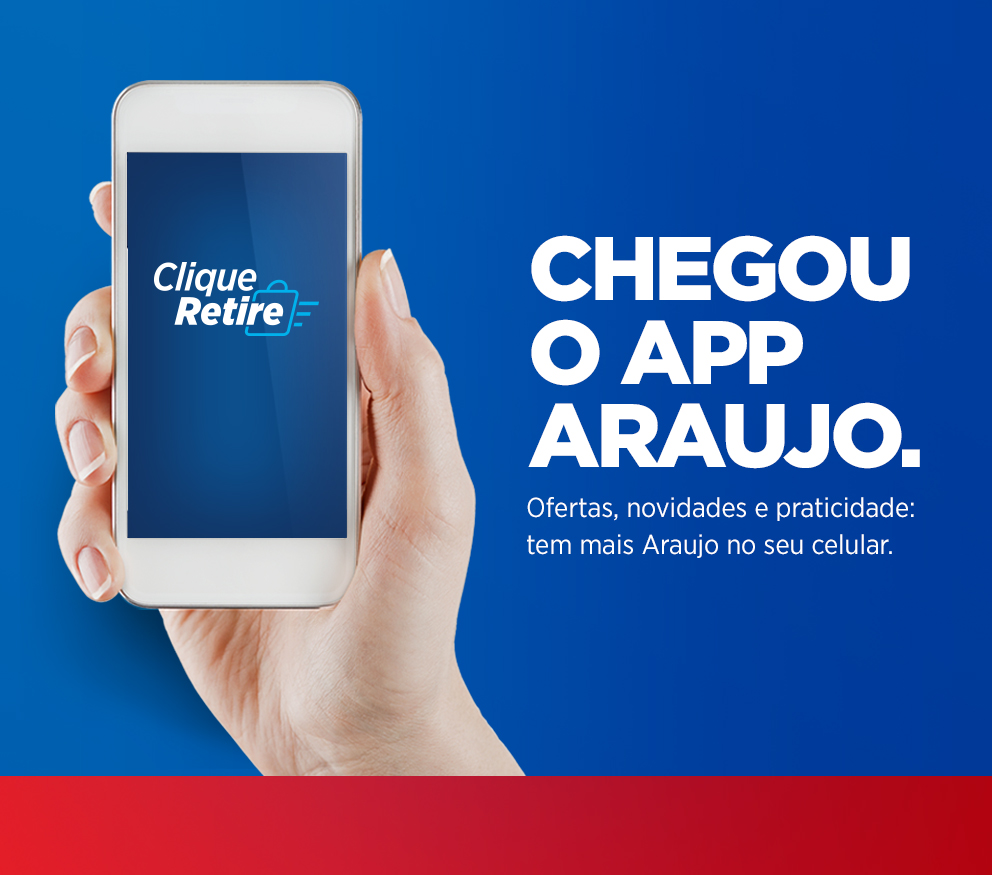
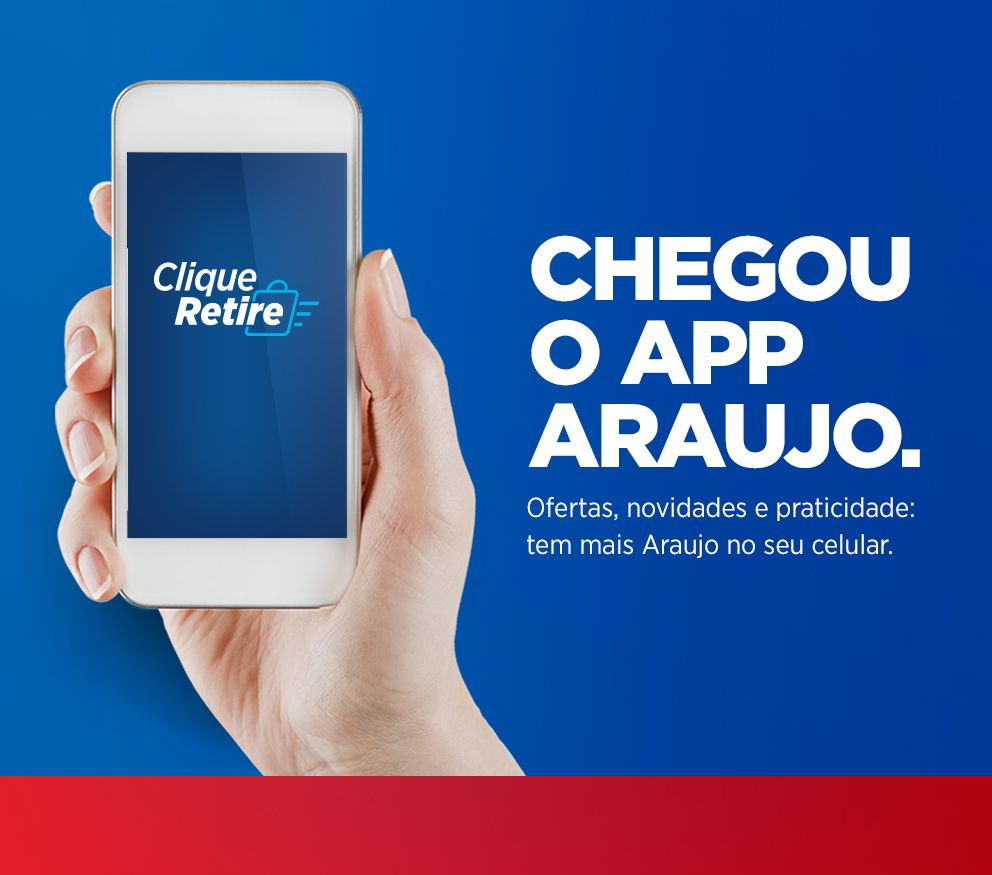
ajustes perfoemance

Changed region(s): [[0.5312, 0.5554, 0.9062, 0.648], [0.1875, 0.3086, 0.3125, 0.3703], [0.75, 0.2777, 0.7812, 0.3086]]

diff --git a/aplicativo/css/app.css b/aplicativo/css/app.css
@@ -1,2 +1,2 @@
-@font-face{font-family:'gotham-narrow-bold';src:url("../fonts/GothamNarrow-Bold.eot?#iefix") format("embedded-opentype"),url("../fonts/GothamNarrow-Bold.otf") format("opentype"),url("../fonts/GothamNarrow-Bold.woff") format("woff"),url("../fonts/GothamNarrow-Bold.ttf") format("truetype"),url("../fonts/GothamNarrow-Bold.svg#gotham-narrow-bold") format("svg");font-weight:normal;font-style:normal}@font-face{font-family:'gotham-narrow-black';src:url("../fonts/GothamNarrow-Black.eot?#iefix") format("embedded-opentype"),url("../fonts/GothamNarrow-Black.otf") format("opentype"),url("../fonts/GothamNarrow-Black.woff") format("woff"),url("../fonts/GothamNarrow-Black.ttf") format("truetype"),url("../fonts/GothamNarrow-Black.svg#gotham-narrow-black") format("svg");font-weight:normal;font-style:normal}@font-face{font-family:'gotham-narrow';src:url("../fonts/GothamNarrow-Book.eot?#iefix") format("embedded-opentype"),url("../fonts/GothamNarrow-Book.otf") format("opentype"),url("../fonts/GothamNarrow-Book.woff") format("woff"),url("../fonts/GothamNarrow-Book.ttf") format("truetype"),url("../fonts/GothamNarrow-Book.svg#gotham-narrow") format("svg");font-weight:normal;font-style:normal}body{font-family:'gotham-narrow' !important;font-weight:normal !important}h1,h2,h3,h4,h5{font-family:'gotham-narrow-black'}h1{color:#fff;margin-top:30px;margin-bottom:15px;font-size:98px;line-height:91px}@media screen and (max-width: 992px){h1{font-size:60px;line-height:60px;text-align:left}}@media screen and (max-width: 768px){h1{font-size:40px;line-height:40px}}@media screen and (max-width: 576px){h1{font-size:30px;line-height:30px}}.subtitle-receita-agil,.subtitle-clique-retire{font-style:italic;text-transform:uppercase;font-size:25px;line-height:30px;text-align:left;color:#fff;margin:40px 0 50px 0}.subtitle-receita-agil span,.subtitle-clique-retire span{color:#00b1eb}.subtitle-receita-agil span.gold,.subtitle-clique-retire span.gold{color:#ffde31}@media screen and (max-width: 992px){.subtitle-receita-agil,.subtitle-clique-retire{text-align:center;font-size:20px;line-height:24px}}.subtitle-clique-retire{text-transform:inherit;font-size:25px;letter-spacing:1px;line-height:25px}p{font-size:18px}strong{font-family:'gotham-narrow-bold'}section{position:relative;overflow:hidden}section .abs-filter{position:absolute;right:0;height:100%}@media screen and (max-width: 992px){section .abs-filter{display:none}}section .col-sector{position:relative;padding:50px 15px}section .col-sector.horizontal-divider:before{content:'';position:absolute;width:1px;height:100%;right:0;top:0}section .col-sector.horizontal-divider:after{content:'';width:40px;height:40px;margin-top:-20px;margin-left:-20px;right:-20px;top:50%;position:absolute;-moz-transform:rotate(45deg);-webkit-transform:rotate(45deg);-o-transform:rotate(45deg);-ms-transform:rotate(45deg);transform:rotate(45deg)}section .col-sector.horizontal-divider p{color:#fff;font-size:24px}@media screen and (max-width: 992px){section .col-sector.horizontal-divider:before{left:0;right:inherit;top:inherit;bottom:0;width:100%;height:1px}section .col-sector.horizontal-divider:after{width:20px;height:20px;margin-left:-10px;margin-top:-10px;right:inherit;top:inherit;bottom:-10px;left:50%;z-index:3}section .col-sector.horizontal-divider p{font-size:18px}}@media screen and (max-width: 576px){section .col-sector{padding:25px 15px}}section .title-section{display:block;text-transform:uppercase;text-align:center;margin:30px 15px 15px 15px}section .title-section.blue-detail{color:#2c527c;background:url(../img/blue-detail.png) repeat-x 0% 50%}section .title-section.blue-detail span,section .title-section.blue-detail strong{display:inline-block;padding:0px 25px;background-color:#4f92de}section .title-section.green-detail{color:#2c745c;background:url(../img/green-detail.png) repeat-x 0% 50%}section .title-section.green-detail span,section .title-section.green-detail strong{display:inline-block;padding:0px 25px;background-color:#4ac39a}@media screen and (max-width: 576px){section .title-section{display:block;padding:0 0}}.container{max-width:960px}.features-list{margin-bottom:25px}.features-list p{color:#2c527c}@media screen and (max-width: 992px){.features-list p{font-size:0.9rem;padding-left:0.5rem}}@media screen and (max-width: 992px){.features-list{margin:15px 0}}.img-fluid{display:block;margin:0 auto}.img-fluid.inline{display:inline-block}.line-cta-buttom{margin-bottom:20px;margin-top:40px}@media screen and (max-width: 992px){.line-cta-buttom .col{text-align:left}.line-cta-buttom img{max-height:60px}.line-cta-buttom.mobile-header{margin-top:0}}@media screen and (max-width: 768px){.line-cta-buttom{margin:15px 0;justify-content:center}.line-cta-buttom .col{text-align:center}}.list-lojas-app{display:inline-flex}.list-lojas-app .nav-item:first-child{margin-right:15px}@media screen and (max-width: 992px){.list-lojas-app{justify-content:center}}@media screen and (max-width: 576px){.list-lojas-app .nav-item{display:block;width:100%}.list-lojas-app .nav-item:first-child{margin-right:0px;margin-bottom:15px}}.full-height{height:100%}@media screen and (max-width: 992px){.container{max-width:inherit;width:100%}}.video-line{padding:30px 0}.pre-header{background-color:#fbfbfb;display:none;text-align:left;padding:10px 30px}.pre-header img{display:block;margin:0 auto}@media screen and (max-width: 768px){.pre-header{margin-bottom:30px}}header{padding:30px 0 50px 0;background:url("../img/fundo-receita-agil.jpg") no-repeat 50% 50%;background-size:100% 100%}header .destaque{color:#fff;font-size:30px;line-height:40px;margin-bottom:0}header .abs-logo{margin-bottom:-50px;display:inline-block}@media screen and (max-width: 992px){header .destaque{font-size:24px;line-height:28px;text-align:left}header .container{padding:0}}@media screen and (max-width: 768px){header{padding-top:0;background:url(../img/gradient-red-mob.jpg) repeat-y left top/100%;background-color:#bb1125}header .destaque{font-size:18px;line-height:20px;text-align:left}}@media screen and (max-width: 576px){header .destaque{font-size:14px;line-height:18px}}.clique-retire{background:url(../img/fundo-clique-retire.png) repeat-x left center/100% 100%;padding:60px 0 50px 0}.clique-retire .abs-filter{background-color:#3db49a}.clique-retire .col-sector.horizontal-divider:before{background-color:#2c745c}.clique-retire .col-sector.horizontal-divider:after{background-color:#4ac39a;border-top:1px solid #2c745c;border-right:1px solid #2c745c}@media screen and (max-width: 992px){.clique-retire .col-sector.horizontal-divider:after{border-bottom:1px solid #2c745c;border-top:none}}.clique-retire .list-clique-retire{text-align:center}.clique-retire .list-clique-retire h3{text-transform:uppercase;margin-top:15px;color:#fff}.clique-retire .list-clique-retire p{color:#fff}@media screen and (max-width: 576px){.clique-retire .list-clique-retire .list-item{margin-bottom:30px}.clique-retire .list-clique-retire .list-item:last-child{margin-bottom:0}}@media screen and (max-width: 992px){.clique-retire .filter-mob{background-color:#3db49a}}.receita-agil{background:url(../img/fundo-receita-agil.jpg) no-repeat center center/cover;padding:60px 0 50px 0;background-color:#4f92de}.receita-agil .abs-filter{background-color:#568ec9}.receita-agil .col-sector.horizontal-divider:before{background-color:#2c527c}.receita-agil .col-sector.horizontal-divider:after{background-color:#4f92de;border-top:1px solid #2c527c;border-right:1px solid #2c527c}@media screen and (max-width: 992px){.receita-agil .col-sector.horizontal-divider:after{border-bottom:1px solid #2c527c;border-top:none}}@media screen and (max-width: 992px){.receita-agil .filter-mob{background-color:#568ec9}}.receita-agil .col-carousel{text-align:center;position:relative}.features-app{padding:100px 0 50px 0;background-color:#edecec}@media screen and (max-width: 992px){.features-app{padding:30px 0}}.features-app .title-app{color:#004476;text-transform:uppercase;margin-top:25px;font-size:40px}@media screen and (max-width: 992px){.features-app .title-app{font-size:28px}}.features-app .col-sector.horizontal-divider:before{background-color:#d2d2d1}@media screen and (max-width: 992px){.features-app .col-sector.horizontal-divider:before{display:none}}.features-app .col-sector.horizontal-divider:after{background-color:#fbfbfb;border-top:1px solid #d2d2d1;border-right:1px solid #d2d2d1}@media screen and (max-width: 992px){.features-app .col-sector.horizontal-divider:after{display:none}}@media screen and (max-width: 992px){.features-app .filter-mob{background-color:#f7f6f5}}.carousel-passo.cr-clique-retire .carousel-control-prev,.carousel-passo.cr-clique-retire .carousel-control-next{margin-top:0}@media screen and (max-width: 992px){.carousel-passo.cr-clique-retire .carousel-control-prev,.carousel-passo.cr-clique-retire .carousel-control-next{top:30%;margin-top:0;bottom:inherit}}.carousel-passo.carousel-swipe{z-index:1}.carousel-passo.before-content{position:relative}.carousel-passo.before-content:before{content:'';position:absolute;width:25%;background-color:#fff;height:100%;left:-25%;bottom:0;z-index:0}@media screen and (max-width: 992px){.carousel-passo.before-content:before{display:none}}.carousel-passo img{margin:0 auto}.carousel-passo .legenda{background-color:#fff;padding:30px 15px 15px 15px;text-align:left;width:80%}.carousel-passo .legenda h5{text-transform:uppercase;color:#004476;font-size:28px;margin:0 0 0px 0}.carousel-passo .legenda p{font-size:18px;color:#004476;margin:0}.carousel-passo .legenda p .number{font-size:26px;font-family:'gotham-narrow-bold'}@media screen and (max-width: 992px){.carousel-passo .legenda{width:100%;text-align:center;margin-bottom:30px}}.carousel-passo .carousel-indicators{position:relative;margin:30px auto 0 auto}.carousel-passo .carousel-indicators li{width:15px;height:15px;border-radius:50%;-moz-transition:1s ease;-o-transition:1s ease;-webkit-transition:1s ease;transition:1s ease}.carousel-passo .carousel-indicators li.active{background-color:#22fcff;-moz-transition:1s ease;-o-transition:1s ease;-webkit-transition:1s ease;transition:1s ease}.carousel-passo .carousel-control-prev,.carousel-passo .carousel-control-next{width:auto;margin-top:-50%}@media screen and (max-width: 992px){.carousel-passo .carousel-control-prev,.carousel-passo .carousel-control-next{top:30%;margin-top:0;bottom:inherit}}@media screen and (max-width: 992px){.carousel-passo{display:inline-block;width:80%}.carousel-passo .carousel-item img{max-height:200px}}@media screen and (max-width: 576px){.carousel-passo{display:block;width:100%}}.video-js{font-size:10px;color:#fff}.vjs-default-skin .vjs-big-play-button{font-size:3em;line-height:1.5em;height:1.5em;width:3em;border:0.06666em solid #fff;border-radius:0.3em;left:0.5em;top:0.5em}.video-js .vjs-control-bar,.video-js .vjs-big-play-button,.video-js .vjs-menu-button .vjs-menu-content{background-color:#2B333F;background-color:rgba(43,51,63,0.7)}.video-js .vjs-slider{background-color:#73859f;background-color:rgba(115,133,159,0.5)}.video-js .vjs-volume-level,.video-js .vjs-play-progress,.video-js .vjs-slider-bar{background:#fff}.video-js .vjs-load-progress{background:#bfc7d3;background:rgba(115,133,159,0.5)}.video-js .vjs-load-progress div{background:#fff;background:rgba(115,133,159,0.75)}.main-footer{background-color:#004476;padding:35px 0}.main-footer .site-link{font-family:'gotham-narrow-bold';color:#fff;font-size:24px;text-decoration:none}.main-footer .site-link:hover{text-decoration:underline}@media screen and (max-width: 768px){.main-footer .col-link{text-align:center;margin-bottom:15px}}.main-footer .social-links{justify-content:flex-end !important}.main-footer .social-links .nav-item{margin-right:15px}.main-footer .social-links .nav-item:last-child{margin-right:0}@media screen and (max-width: 768px){.main-footer .social-links{justify-content:center !important}}@media screen and (max-width: 768px){.main-footer{padding:20px 0}}
+@font-face{font-family:'gotham-narrow-bold';src:url("../fonts/GothamNarrow-Bold.eot?#iefix") format("embedded-opentype"),url("../fonts/GothamNarrow-Bold.otf") format("opentype"),url("../fonts/GothamNarrow-Bold.woff") format("woff"),url("../fonts/GothamNarrow-Bold.ttf") format("truetype"),url("../fonts/GothamNarrow-Bold.svg#gotham-narrow-bold") format("svg");font-weight:normal;font-style:normal}@font-face{font-family:'gotham-narrow-black';src:url("../fonts/GothamNarrow-Black.eot?#iefix") format("embedded-opentype"),url("../fonts/GothamNarrow-Black.otf") format("opentype"),url("../fonts/GothamNarrow-Black.woff") format("woff"),url("../fonts/GothamNarrow-Black.ttf") format("truetype"),url("../fonts/GothamNarrow-Black.svg#gotham-narrow-black") format("svg");font-weight:normal;font-style:normal}@font-face{font-family:'gotham-narrow';src:url("../fonts/GothamNarrow-Book.eot?#iefix") format("embedded-opentype"),url("../fonts/GothamNarrow-Book.otf") format("opentype"),url("../fonts/GothamNarrow-Book.woff") format("woff"),url("../fonts/GothamNarrow-Book.ttf") format("truetype"),url("../fonts/GothamNarrow-Book.svg#gotham-narrow") format("svg");font-weight:normal;font-style:normal}body{font-family:'gotham-narrow' !important;font-weight:normal !important}h1,h2,h3,h4,h5{font-family:'gotham-narrow-black'}h1{color:#fff;margin-top:30px;margin-bottom:15px;font-size:98px;line-height:91px}@media screen and (max-width: 992px){h1{font-size:60px;line-height:60px;text-align:left}}@media screen and (max-width: 768px){h1{font-size:40px;line-height:40px}}@media screen and (max-width: 576px){h1{font-size:30px;line-height:30px}}.subtitle-receita-agil,.subtitle-clique-retire{font-style:italic;text-transform:uppercase;font-size:25px;line-height:30px;text-align:left;color:#fff;margin:40px 0 50px 0}.subtitle-receita-agil span,.subtitle-clique-retire span{color:#00b1eb}.subtitle-receita-agil span.gold,.subtitle-clique-retire span.gold{color:#ffde31}@media screen and (max-width: 992px){.subtitle-receita-agil,.subtitle-clique-retire{text-align:center;font-size:20px;line-height:24px}}.subtitle-clique-retire{text-transform:inherit;font-size:25px;letter-spacing:1px;line-height:25px}p{font-size:18px}strong{font-family:'gotham-narrow-bold'}section{position:relative;overflow:hidden}section .abs-filter{position:absolute;right:0;height:100%}@media screen and (max-width: 992px){section .abs-filter{display:none}}section .col-sector{position:relative;padding:50px 15px}section .col-sector.horizontal-divider:before{content:'';position:absolute;width:1px;height:100%;right:0;top:0}section .col-sector.horizontal-divider:after{content:'';width:40px;height:40px;margin-top:-20px;margin-left:-20px;right:-20px;top:50%;position:absolute;-moz-transform:rotate(45deg);-webkit-transform:rotate(45deg);-o-transform:rotate(45deg);-ms-transform:rotate(45deg);transform:rotate(45deg)}section .col-sector.horizontal-divider p{color:#fff;font-size:24px}@media screen and (max-width: 992px){section .col-sector.horizontal-divider:before{left:0;right:inherit;top:inherit;bottom:0;width:100%;height:1px}section .col-sector.horizontal-divider:after{width:20px;height:20px;margin-left:-10px;margin-top:-10px;right:inherit;top:inherit;bottom:-10px;left:50%;z-index:3}section .col-sector.horizontal-divider p{font-size:18px}}@media screen and (max-width: 576px){section .col-sector{padding:25px 15px}}section .title-section{display:block;text-transform:uppercase;text-align:center;margin:30px 15px 15px 15px}section .title-section.blue-detail{color:#2c527c;background:url(../img/blue-detail.png) repeat-x 0% 50%}section .title-section.blue-detail span,section .title-section.blue-detail strong{display:inline-block;padding:0px 25px;background-color:#4f92de}section .title-section.green-detail{color:#2c745c;background:url(../img/green-detail.png) repeat-x 0% 50%}section .title-section.green-detail span,section .title-section.green-detail strong{display:inline-block;padding:0px 25px;background-color:#4ac39a}@media screen and (max-width: 576px){section .title-section{display:block;padding:0 0}}.container{max-width:960px}.features-list{margin-bottom:25px}.features-list p{color:#2c527c}@media screen and (max-width: 992px){.features-list p{font-size:0.9rem;padding-left:0.5rem}}@media screen and (max-width: 992px){.features-list{margin:15px 0}}.img-fluid{display:block;margin:0 auto}.img-fluid.inline{display:inline-block}.line-cta-buttom{margin-bottom:20px;margin-top:40px}@media screen and (max-width: 992px){.line-cta-buttom .col{text-align:left}.line-cta-buttom img{max-height:60px}.line-cta-buttom.mobile-header{margin-top:0}}@media screen and (max-width: 768px){.line-cta-buttom{margin:15px 0;justify-content:center}.line-cta-buttom .col{text-align:center}}.list-lojas-app{display:inline-flex}.list-lojas-app .nav-item:first-child{margin-right:15px}@media screen and (max-width: 992px){.list-lojas-app{justify-content:center}}@media screen and (max-width: 576px){.list-lojas-app .nav-item{display:block;width:100%}.list-lojas-app .nav-item:first-child{margin-right:0px;margin-bottom:15px}}.full-height{height:100%}@media screen and (max-width: 992px){.container{max-width:inherit;width:100%}}.video-line{padding:30px 0}.pre-header{background-color:#fbfbfb;display:none;text-align:left;padding:10px 30px}.pre-header img{display:block;margin:0 auto}@media screen and (max-width: 768px){.pre-header{margin-bottom:30px}}header{padding:30px 0 50px 0;background:url("../img/fundo-receita-agil.jpg") no-repeat 50% 50%;background-size:100% 100%}header .destaque{color:#fff;font-size:30px;line-height:40px;margin-bottom:0}header .abs-logo{margin-bottom:-50px;display:inline-block}@media screen and (max-width: 992px){header .destaque{font-size:24px;line-height:28px;text-align:left}header .container{padding:0}}@media screen and (max-width: 768px){header{padding-top:0;background:url(../img/gradient-red-mob.jpg) repeat-y left top/100%;background-color:#bb1125}header .destaque{font-size:18px;line-height:20px;text-align:left}}@media screen and (max-width: 576px){header .destaque{font-size:14px;line-height:18px}}.text-center{font-family:'gotham-narrow-bold';text-align:center;color:white;font-size:31px}.mtopzero{margin-top:0}.clique-retire{background:url(../img/fundo-clique-retire.png) repeat-x left center/100% 100%;padding:60px 0 50px 0}.clique-retire .abs-filter{background-color:#3db49a}.clique-retire .col-sector.horizontal-divider:before{background-color:#2c745c}.clique-retire .col-sector.horizontal-divider:after{background-color:#4ac39a;border-top:1px solid #2c745c;border-right:1px solid #2c745c}@media screen and (max-width: 992px){.clique-retire .col-sector.horizontal-divider:after{border-bottom:1px solid #2c745c;border-top:none}}.clique-retire .list-clique-retire{text-align:center}.clique-retire .list-clique-retire h3{text-transform:uppercase;margin-top:15px;color:#fff}.clique-retire .list-clique-retire p{color:#fff}@media screen and (max-width: 576px){.clique-retire .list-clique-retire .list-item{margin-bottom:30px}.clique-retire .list-clique-retire .list-item:last-child{margin-bottom:0}}@media screen and (max-width: 992px){.clique-retire .filter-mob{background-color:#3db49a}}.receita-agil{background:url(../img/fundo-receita-agil.jpg) no-repeat center center/cover;padding:60px 0 50px 0;background-color:#4f92de}.receita-agil .abs-filter{background-color:#568ec9}.receita-agil .col-sector.horizontal-divider:before{background-color:#2c527c}.receita-agil .col-sector.horizontal-divider:after{background-color:#4f92de;border-top:1px solid #2c527c;border-right:1px solid #2c527c}@media screen and (max-width: 992px){.receita-agil .col-sector.horizontal-divider:after{border-bottom:1px solid #2c527c;border-top:none}}@media screen and (max-width: 992px){.receita-agil .filter-mob{background-color:#568ec9}}.receita-agil .col-carousel{text-align:center;position:relative}.features-app{padding:100px 0 50px 0;background-color:#edecec}@media screen and (max-width: 992px){.features-app{padding:30px 0}}.features-app .title-app{color:#004476;text-transform:uppercase;margin-top:25px;font-size:40px}@media screen and (max-width: 992px){.features-app .title-app{font-size:28px}}.features-app .col-sector.horizontal-divider:before{background-color:#d2d2d1}@media screen and (max-width: 992px){.features-app .col-sector.horizontal-divider:before{display:none}}.features-app .col-sector.horizontal-divider:after{background-color:#fbfbfb;border-top:1px solid #d2d2d1;border-right:1px solid #d2d2d1}@media screen and (max-width: 992px){.features-app .col-sector.horizontal-divider:after{display:none}}@media screen and (max-width: 992px){.features-app .filter-mob{background-color:#f7f6f5}}.carousel-passo.cr-clique-retire .carousel-control-prev,.carousel-passo.cr-clique-retire .carousel-control-next{margin-top:0}@media screen and (max-width: 992px){.carousel-passo.cr-clique-retire .carousel-control-prev,.carousel-passo.cr-clique-retire .carousel-control-next{top:30%;margin-top:0;bottom:inherit}}.carousel-passo.carousel-swipe{z-index:1}.carousel-passo.before-content{position:relative}.carousel-passo.before-content:before{content:'';position:absolute;width:25%;background-color:#fff;height:100%;left:-25%;bottom:0;z-index:0}@media screen and (max-width: 992px){.carousel-passo.before-content:before{display:none}}.carousel-passo img{margin:0 auto}.carousel-passo .legenda{background-color:#fff;padding:30px 15px 15px 15px;text-align:left;width:80%}.carousel-passo .legenda h5{text-transform:uppercase;color:#004476;font-size:28px;margin:0 0 0px 0}.carousel-passo .legenda p{font-size:18px;color:#004476;margin:0}.carousel-passo .legenda p .number{font-size:26px;font-family:'gotham-narrow-bold'}@media screen and (max-width: 992px){.carousel-passo .legenda{width:100%;text-align:center;margin-bottom:30px}}.carousel-passo .carousel-indicators{position:relative;margin:30px auto 0 auto}.carousel-passo .carousel-indicators li{width:15px;height:15px;border-radius:50%;-moz-transition:1s ease;-o-transition:1s ease;-webkit-transition:1s ease;transition:1s ease}.carousel-passo .carousel-indicators li.active{background-color:#22fcff;-moz-transition:1s ease;-o-transition:1s ease;-webkit-transition:1s ease;transition:1s ease}.carousel-passo .carousel-control-prev,.carousel-passo .carousel-control-next{width:auto;margin-top:-50%}@media screen and (max-width: 992px){.carousel-passo .carousel-control-prev,.carousel-passo .carousel-control-next{top:30%;margin-top:0;bottom:inherit}}@media screen and (max-width: 992px){.carousel-passo{display:inline-block;width:80%}.carousel-passo .carousel-item img{max-height:200px}}@media screen and (max-width: 576px){.carousel-passo{display:block;width:100%}}.video-js{font-size:10px;color:#fff}.vjs-default-skin .vjs-big-play-button{font-size:3em;line-height:1.5em;height:1.5em;width:3em;border:0.06666em solid #fff;border-radius:0.3em;left:0.5em;top:0.5em}.video-js .vjs-control-bar,.video-js .vjs-big-play-button,.video-js .vjs-menu-button .vjs-menu-content{background-color:#2B333F;background-color:rgba(43,51,63,0.7)}.video-js .vjs-slider{background-color:#73859f;background-color:rgba(115,133,159,0.5)}.video-js .vjs-volume-level,.video-js .vjs-play-progress,.video-js .vjs-slider-bar{background:#fff}.video-js .vjs-load-progress{background:#bfc7d3;background:rgba(115,133,159,0.5)}.video-js .vjs-load-progress div{background:#fff;background:rgba(115,133,159,0.75)}.main-footer{background-color:#004476;padding:35px 0}.main-footer .site-link{font-family:'gotham-narrow-bold';color:#fff;font-size:24px;text-decoration:none}.main-footer .site-link:hover{text-decoration:underline}@media screen and (max-width: 768px){.main-footer .col-link{text-align:center;margin-bottom:15px}}.main-footer .social-links{justify-content:flex-end !important}.main-footer .social-links .nav-item{margin-right:15px}.main-footer .social-links .nav-item:last-child{margin-right:0}@media screen and (max-width: 768px){.main-footer .social-links{justify-content:center !important}}@media screen and (max-width: 768px){.main-footer{padding:20px 0}}
 /*# sourceMappingURL=app.css.map */

diff --git a/aplicativo/index.html b/aplicativo/index.html
@@ -1,31 +1,31 @@
 <!DOCTYPE html>
 <html class="no-js" lang="en">
     <head>
-      <meta charset="UTF-8">
-      <title>Tem + Chegou seu app Araujo</title>
-      <meta name="viewport" content="width=device-width, initial-scale=1.0, maximum-scale=1.0, user-scalable=0">
+        <!-- Google Tag Manager -->
+        <script>(function(w,d,s,l,i){w[l]=w[l]||[];w[l].push({'gtm.start':
+        new Date().getTime(),event:'gtm.js'});var f=d.getElementsByTagName(s)[0],
+        j=d.createElement(s),dl=l!='dataLayer'?'&l='+l:'';j.async=true;j.src=
+        'https://www.googletagmanager.com/gtm.js?id='+i+dl;f.parentNode.insertBefore(j,f);
+        })(window,document,'script','dataLayer','GTM-5SZPNHK');</script>
+        <!-- End Google Tag Manager -->
+        <meta charset="UTF-8">
+        <title>Tem + Chegou seu app Araujo</title>
+       <meta name="viewport" content="width=device-width, initial-scale=1.0, maximum-scale=1.0, user-scalable=0">
       <meta name="description" content="Aplicativo Araujo">
       <meta name="keywords" content="aplicativo, drogaria, drogaria araujo, araujo, app araujo">
+      <link rel="icon" type="image/png" href="favicon-32x32.png" sizes="32x32" />
+      <link rel="icon" type="image/png" href="favicon-16x16.png" sizes="16x16" />
+      <META HTTP-EQUIV="CACHE-CONTROL" CONTENT="Public">
       <!--<link href="//vjs.zencdn.net/6.7/video-js.min.css" rel="stylesheet">-->
       <link rel="stylesheet" href="https://stackpath.bootstrapcdn.com/bootstrap/4.1.0/css/bootstrap.min.css" integrity="sha384-9gVQ4dYFwwWSjIDZnLEWnxCjeSWFphJiwGPXr1jddIhOegiu1FwO5qRGvFXOdJZ4" crossorigin="anonymous">
       <link rel="stylesheet" href="css/app.css" type="text/css" media="screen" />
-            <!-- Global site tag (gtag.js) - Google Analytics -->
-
-            
-    <!-- Global site tag (gtag.js) - Google Analytics -->
-    <script async src="https://www.googletagmanager.com/gtag/js?id=UA-115750859-3"></script>
-    <script>
-        window.dataLayer = window.dataLayer || [];
-        function gtag(){dataLayer.push(arguments);}
-        gtag('js', new Date());
-
-        gtag('config', 'UA-115750859-3');
-    </script>
     </head>
     <body>
+        <noscript><iframe src="https://www.googletagmanager.com/ns.html?id=GTM-5SZPNHK"
+        height="0" width="0" style="display:none;visibility:hidden"></iframe></noscript>
     <header class="main-banner">
         <!--<div class="pre-header d-block d-md-none">
-            <img src="img/logo-araujo.png" alt="">
+            <img data-src="img/logo-araujo.png" alt="">
         </div>-->
         <div class="container">
             <div class="row no-gutters justify-content-center">
@@ -34,7 +34,7 @@
                 </div>
                 <div class="col-md-6 col-lg-6 col-12 order-2 order-md-2 col-header-text">
                     <!--<div class="d-block d-md-none mobile-logo">
-                        <img src="img/logo-araujo.png" class="img-fluid" alt="Drogaria Araujo.">
+                        <img data-src="img/logo-araujo.png" class="img-fluid" alt="Drogaria Araujo.">
                     </div>-->
                     <div class="d-none d-md-block">
                         <h1>
@@ -48,23 +48,23 @@
                         </p>
                     </div>
                     <div class="d-block d-md-none">
-                        <img src="img/banner-app-mobile.jpg" class="img-fluid" alt="Drogaria Araujo.">
+                        <img data-src="img/banner-app-mobile.jpg" class="img-fluid" alt="Drogaria Araujo.">
                     </div>
                     
                     <div class="row line-cta-buttom d-none d-md-block">
-                        <div class="col text-left">
-                            <img src="img/btn-baixe-agora.png" class="img-fluid inline" alt="Baixe o Aplicativo">
+                        <div class="col col-md-10 text-center">
+                            Clique e baixe agora:
                         </div>
                     </div>
                     
-                    <div class="row justify-content-center line-cta-buttom d-none d-md-block">
-                        <div class="col">
+                    <div class="row justify-content-center line-cta-buttom d-none d-md-block mtopzero">
+                        <div class="col col-md-10 text-center">
                             <ul class="nav list-lojas-app">
                                 <li class="nav-item">
-                                    <a  id="Android1" href="https://play.google.com/store/apps/details?id=com.araujo.araujoapp" target="_blank" alt="Aplicativo Drogaria Araujo na Google play Store" onclick="ga('send', 'event', 'Clique', 'App', '');"><img src="img/botao-google-play.png" class="img-fluid" alt="Google Play icon"></a>
+                                    <a id="Android1" href="https://play.google.com/store/apps/details?id=com.araujo.araujoapp" target="_blank" alt="Aplicativo Drogaria Araujo na Google Play Store" onclick="ga('send', 'event', 'Clique', 'App', '');" rel="nofollow"><img data-src="img/botao-google-play.png" class="img-fluid" alt="Google Play icon"></a>
                                 </li>
                                 <li class="nav-item">
-                                    <a id="iOS1" href="https://itunes.apple.com/br/app/drogaria-araujo/id1258317711?mt=8" alt="Aplicativo Drogaria Araujo na Apple Store" target="_blank"><img src="img/botao-app-store.png" class="img-fluid" alt="Apple Store icon"></a>
+                                    <a id="iOS1" href="https://itunes.apple.com/br/app/drogaria-araujo/id1258317711?mt=8" alt="Aplicativo Drogaria Araujo na App Store" target="_blank" rel="nofollow"><img data-src="img/botao-app-store.png" class="img-fluid" alt="App Store icon"></a>
                                 </li>
                             </ul>
                         </div>
@@ -72,18 +72,19 @@
                 </div>
             </div>
             <div class="row line-cta-buttom mobile-header d-block d-md-none">
-                <div class="col text-center text-md-left">
-                    <img src="img/btn-baixe-agora.png" class="img-fluid inline" alt="Baixe o Aplicativo">
+                <div class="col text-center text-center">
+                    <!-- <img data-src="img/btn-baixe-agora.png" class="img-fluid inline" alt="Baixe o Aplicativo"> -->
+                    Clique e baixe agora:
                 </div>
             </div>
             <div class="row justify-content-center line-cta-buttom d-block d-md-none">
                 <div class="col">
                     <ul class="nav list-lojas-app">
                         <li class="nav-item">
-                            <a id="Android1-Mobile" href="https://play.google.com/store/apps/details?id=com.araujo.araujoapp" target="_blank" alt="Aplicativo Drogaria Araujo na Google play Store" onclick="ga('send', 'event', 'Clique', 'App', 'Android1');"><img src="img/botao-google-play.png" class="img-fluid" alt="Google Play icon"></a>
+                            <a id="Android1-Mobile" href="https://play.google.com/store/apps/details?id=com.araujo.araujoapp" target="_blank" alt="Aplicativo Drogaria Araujo na Google Play Store" onclick="ga('send', 'event', 'Clique', 'App', 'Android1');" rel="nofollow"><img data-src="img/botao-google-play.png" class="img-fluid" alt="Google Play icon"></a>
                         </li>
                         <li class="nav-item">
-                            <a id="iOS1-Mobile" href="https://itunes.apple.com/br/app/drogaria-araujo/id1258317711?mt=8" alt="Aplicativo Drogaria Araujo na Apple Store" target="_blank"><img src="img/botao-app-store.png" class="img-fluid" alt="Apple Store icon"></a>
+                            <a id="iOS1-Mobile" href="https://itunes.apple.com/br/app/drogaria-araujo/id1258317711?mt=8" alt="Aplicativo Drogaria Araujo na App Store" target="_blank" rel="nofollow"><img data-src="img/botao-app-store.png" class="img-fluid" alt="App Store icon"></a>
                         </li>
                     </ul>
                 </div>
@@ -96,7 +97,7 @@
                 <div class="col-lg-6 col-md-12 horizontal-divider text-left">
                     <div class="div row full-height align-items-center">
                         <div class="col text-center text-lg-left">
-                            <img src="img/clique-retire-logo.png" class="img-fluid inline" alt="Clique e Retire - Drogaria Araujo">
+                            <img data-src="img/clique-retire-logo.png" class="img-fluid inline" alt="Clique e Retire - Drogaria Araujo">
                             <h3 class="subtitle-clique-retire">
                                 <span class="gold">Facilite sua vida.</span> Faça suas <br class="d-none d-md-block"/>
                                 compras pelo app e retire <br class="d-none d-md-block"/>
@@ -137,11 +138,11 @@
                                     </div>
                                 </div>
                                 <a class="carousel-control-prev" href="#carousel-clique-retire" role="button" data-slide="prev">
-                                <img src="img/angle-left.png" class="img-fluid" alt="Próximo item">
+                                <img data-src="img/angle-left.png" class="img-fluid" alt="Próximo item">
                                     <span class="sr-only">Anterior</span>
                                 </a>
                                 <a class="carousel-control-next" href="#carousel-clique-retire" role="button" data-slide="next">
-                                    <img src="img/angle-right.png" class="img-fluid" alt="Próximo item">
+                                    <img data-src="img/angle-right.png" class="img-fluid" alt="Próximo item">
                                     <span class="sr-only">Próximo</span>
                                 </a>
                                 <ol class="carousel-indicators">
@@ -177,11 +178,11 @@
                             </div>
                         </div>
                         <a class="carousel-control-prev" href="#carousel-passo-a-passo" role="button" data-slide="prev">
-                        <img src="img/angle-left.png" class="img-fluid" alt="Próximo item">
+                        <img data-src="img/angle-left.png" class="img-fluid" alt="Próximo item">
                             <span class="sr-only">Anterior</span>
                         </a>
                         <a class="carousel-control-next" href="#carousel-passo-a-passo" role="button" data-slide="next">
-                            <img src="img/angle-right.png" class="img-fluid" alt="Próximo item">
+                            <img data-src="img/angle-right.png" class="img-fluid" alt="Próximo item">
                             <span class="sr-only">Próximo</span>
                         </a>
                         <ol class="carousel-indicators">
@@ -196,7 +197,7 @@
                     <div class="row no-gutters">
                         <div class="col-12">
                             <div class="box-receita-agil d-inline-block">
-                                <img src="img/logo-receita-agil.png" class="img-fluid inline" alt="Receita Ágil Araujo">
+                                <img data-src="img/logo-receita-agil.png" class="img-fluid inline" alt="Receita Ágil Araujo">
                                 <h3 class="subtitle-receita-agil">
                                     Fotografe sua receita médica <br class="d-none d-sm-block"/>
                                     e envie pelo app, que <span>a gente <br class="d-none d-sm-block"/>
@@ -254,7 +255,7 @@
                             </h3>
                         </div>
                         <div class="col-md-4">
-                            <img src="img/icone-aplicativo.png" alt="" class="img-fluid">
+                            <img data-src="img/icone-aplicativo.png" alt="" class="img-fluid">
                         </div>
                     </div>
                 </div>
@@ -262,7 +263,7 @@
                     
                     <div class="row no-gutters features-list">
                         <div class="col-md-3 col-3">
-                            <img src="img/icon-conversa-farmaceutico.png" class="img-fluid" alt="">
+                            <img data-src="img/icon-conversa-farmaceutico.png" class="img-fluid" alt="">
                         </div>
                         <div class="col-md-9 col-9">
                             <p>
@@ -274,7 +275,7 @@
                     </div>
                     <div class="row no-gutters features-list">
                         <div class="col-md-3 col-3">
-                            <img src="img/icon-lembrete.png" class="img-fluid" alt="">
+                            <img data-src="img/icon-lembrete.png" class="img-fluid" alt="">
                         </div>
                         <div class="col-md-9 col-9">
                             <p>
@@ -290,17 +291,18 @@
             </div>
             <div class="row no-gutters line-cta-buttom">
                 <div class="col-12 text-center">
-                    <img src="img/btn-baixe-agora.png" alt="Baixe o Aplicativo">
+                    <!-- <img data-src="img/btn-baixe-agora.png" alt="Baixe o Aplicativo"> -->
+                    <span style="color: #004476">Clique e baixe agora:</span>
                 </div>
             </div>
             <div class="row no-gutters line-cta-buttom">
                 <div class="col-12 text-center">
                     <ul class="nav list-lojas-app">
                         <li class="nav-item">
-                            <a id="Android2" href="https://play.google.com/store/apps/details?id=com.araujo.araujoapp" target="_blank" alt="Aplicativo Drogaria Araujo na Google play Store"><img src="img/botao-google-play.png" class="img-fluid" alt="Google Play icon"></a>
+                            <a id="Android2" href="https://play.google.com/store/apps/details?id=com.araujo.araujoapp" target="_blank" alt="Aplicativo Drogaria Araujo na Google Play Store" rel="nofollow"><img data-src="img/botao-google-play.png" class="img-fluid" alt="Google Play icon"></a>
                         </li>
                         <li class="nav-item">
-                            <a id="iOS2" href="https://itunes.apple.com/br/app/drogaria-araujo/id1258317711?mt=8" alt="Aplicativo Drogaria Araujo na Apple Store" target="_blank"><img src="img/botao-app-store.png" class="img-fluid" alt="Apple Store icon"></a>
+                            <a id="iOS2" href="https://itunes.apple.com/br/app/drogaria-araujo/id1258317711?mt=8" alt="Aplicativo Drogaria Araujo na App Store" target="_blank" rel="nofollow"><img data-src="img/botao-app-store.png" class="img-fluid" alt="App Store icon"></a>
                         </li>
                     </ul>
                 </div>
@@ -316,19 +318,19 @@
                 <div class="col-lg-4 offset-lg-4 col-md-6 col-sm-12 col-link">
                     <ul class="nav social-links">
                         <li class="nav-item">
-                            <a href="https://www.instagram.com/drogariaaraujo/" target="_blank"><img src="img/instagram.png" class="img-fluid" alt="Instagram Drogaria Araujo"></a>
+                            <a href="https://www.instagram.com/drogariaaraujo/" target="_blank" rel="nofollow"><img data-src="img/instagram.png" class="img-fluid" alt="Instagram Drogaria Araujo"></a>
                         </li>
                         <li class="nav-item">
-                            <a href="https://www.facebook.com/drogariaaraujo" target="_blank"><img src="img/facebook.png" class="img-fluid" alt="Facebook Drogaria Araujo"></a>
+                            <a href="https://www.facebook.com/drogariaaraujo" target="_blank" rel="nofollow"><img data-src="img/facebook.png" class="img-fluid" alt="Facebook Drogaria Araujo"></a>
                         </li>
                         <li class="nav-item">
-                            <a href="https://twitter.com/drogaria_araujo" target="_blank"><img src="img/twitter.png" class="img-fluid" alt="Twitter Drogaria Araujo"></a>
+                            <a href="https://twitter.com/drogaria_araujo" target="_blank rel="nofollow""><img data-src="img/twitter.png" class="img-fluid" alt="Twitter Drogaria Araujo"></a>
                         </li>
                         <li class="nav-item">
-                            <a href="https://www.youtube.com/user/araujooficial" target="_blank"><img src="img/youtube.png" class="img-fluid" alt="Youtube Drogaria Araujo"></a>
+                            <a href="https://www.youtube.com/user/araujooficial" target="_blank" rel="nofollow"><img data-src="img/youtube.png" class="img-fluid" alt="Youtube Drogaria Araujo"></a>
                         </li>
                         <li class="nav-item">
-                            <a href="http://blog.araujo.com.br/" target="_blank"><img src="img/blog.png" class="img-fluid" alt="Blog Drogaria Araujo"></a>
+                            <a href="http://blog.araujo.com.br/" target="_blank" rel="nofollow"><img data-src="img/blog.png" class="img-fluid" alt="Blog Drogaria Araujo"></a>
                         </li>
                     </ul>
                 </div>
@@ -344,6 +346,8 @@
       <!-- Bootstrap JS -->
       <script src="https://stackpath.bootstrapcdn.com/bootstrap/4.1.0/js/bootstrap.min.js" integrity="sha384-uefMccjFJAIv6A+rW+L4AHf99KvxDjWSu1z9VI8SKNVmz4sk7buKt/6v9KI65qnm" crossorigin="anonymous"></script>
       <script src="https://cdnjs.cloudflare.com/ajax/libs/popper.js/1.14.0/umd/popper.min.js" integrity="sha384-cs/chFZiN24E4KMATLdqdvsezGxaGsi4hLGOzlXwp5UZB1LY//20VyM2taTB4QvJ" crossorigin="anonymous"></script>
+      <script src="https://cdnjs.cloudflare.com/ajax/libs/vanilla-lazyload/10.9.0/lazyload.min.js"></script>
+
       <script>
           //var player = videojs(".video-item");
         $('.carousel-passo .carousel-control-prev').click(function(e){
@@ -368,6 +372,11 @@
                 }
             },
                 allowPageScroll:"vertical"
+        });
+
+
+        var myLazyLoad = new LazyLoad({
+            elements_selector: ".img-fluid"
         });
         
       </script>

diff --git a/aplicativo/scss/app.scss b/aplicativo/scss/app.scss
@@ -473,6 +473,17 @@ header{
     }
 }
 
+.text-center{
+	font-family: 'gotham-narrow-bold';
+	text-align: center;
+	color: white;
+	font-size: 31px;
+
+}
+
+.mtopzero{
+	margin-top: 0;
+}
 
 
 /*---------------------------------------------------------------
